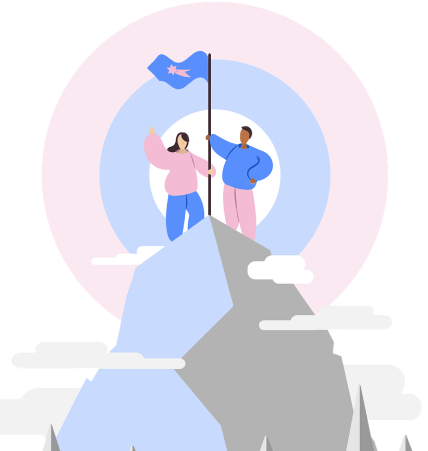
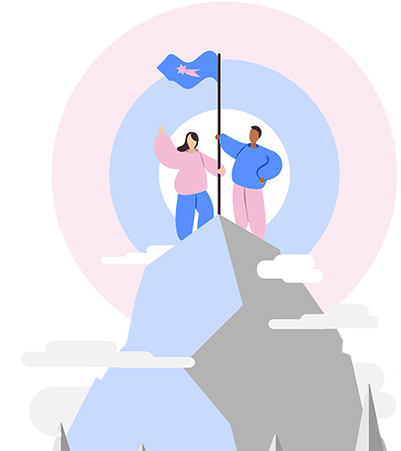
доделал баннер для всех ширин

Changed region(s): [[0.2095, 0.0931, 0.9875, 1.0], [0.0898, 0.8071, 0.2693, 1.0], [0.2993, 0.9933, 0.389, 1.0]]

diff --git a/build/css/style.min.css b/build/css/style.min.css
@@ -1,2 +1,2 @@
-@-webkit-keyframes pulse1{0%{transform:rotate(45deg) scale(1)}50%{transform:rotate(45deg) scale(1.2)}to{transform:rotate(45deg) scale(.9)}}@keyframes pulse1{0%{transform:rotate(45deg) scale(1)}50%{transform:rotate(45deg) scale(1.2)}to{transform:rotate(45deg) scale(.9)}}@-webkit-keyframes pulse2{0%{transform:rotate(-45deg) scale(1)}50%{transform:rotate(-45deg) scaleX(1.2)}to{transform:rotate(-45deg) scale(.9)}}@keyframes pulse2{0%{transform:rotate(-45deg) scale(1)}50%{transform:rotate(-45deg) scaleX(1.2)}to{transform:rotate(-45deg) scale(.9)}}img{max-width:100%;height:auto}.visually-hidden{position:absolute;width:1px;height:1px;margin:-1px;border:0;padding:0;white-space:nowrap;-webkit-clip-path:inset(100%);clip-path:inset(100%);clip:rect(0 0 0 0);overflow:hidden}@font-face{font-family:'Montserrat';src:local('Montserrat Regular'),local('Montserrat-Regular'),url(../../fonts/Montserrat-Regular.woff2) format('woff2'),url(../../fonts/Montserrat-Regular.woff) format('woff'),url(../../fonts/Montserrat-Regular.ttf) format('truetype');font-weight:400;font-style:normal}@font-face{font-family:'Montserrat';src:local('Montserrat Medium'),local('Montserrat-Medium'),url(../../fonts/Montserrat-Medium.woff2) format('woff2'),url(../../fonts/Montserrat-Medium.woff) format('woff'),url(../../fonts/Montserrat-Medium.ttf) format('truetype');font-weight:500;font-style:normal}@font-face{font-family:'Montserrat';src:local('Montserrat Bold'),local('Montserrat-Bold'),url(../../fonts/Montserrat-Bold.woff2) format('woff2'),url(../../fonts/Montserrat-Bold.woff) format('woff'),url(../../fonts/Montserrat-Bold.ttf) format('truetype');font-weight:700;font-style:normal}.font-bold,.font-medium,.font-normal{font-family:"Montserrat","Arial",sans-serif;font-style:normal;font-weight:700}.font-medium,.font-normal{font-weight:500}.font-normal{font-weight:400}.page,.page__body{background-color:#fff}.page__body{display:grid;grid-template-columns:1fr;margin:0;min-width:320px;font-family:"Montserrat","Arial",sans-serif;font-style:normal;font-weight:400;font-size:18px;line-height:27px;color:#434b53}.header__container,.page__header{display:flex;flex-direction:column}.page__header{width:100%;height:-webkit-max-content;height:-moz-max-content;height:max-content;background-color:#f4bcd4}.header__container{width:88%;margin:0 auto}@media (min-width:768px){.header__container{width:89%}}@media (min-width:1024px){.header__container{width:91%}}@media (min-width:1440px){.header__container{flex-direction:row;justify-content:space-between;width:92%}}.header__top{display:flex;flex-direction:row;justify-content:space-between;width:100%;min-height:70px}@media (min-width:768px){.header__top{min-height:80px}}@media (min-width:1024px){.header__top{min-height:85px}}@media (min-width:1440px){.header__top{min-height:90px}}.header__logo{display:flex;align-items:center}.logo__img{display:block;margin:auto 0}@media (min-width:1024px){.logo__img{width:260px}}@media (min-width:1440px){.logo__img{width:285px}}.header__toggle-container{margin:auto 0;width:26px;height:24px;cursor:pointer}@media (min-width:768px){.header__toggle-container{width:36px;height:36px}}@media (min-width:1440px){.header__toggle-container{display:none}}.header__toggle,.header__toggle::before{width:26px;height:2px;background-color:#fff;border:0;transition:all .5s ease 0s}.header__toggle{display:block;position:relative;top:4px;margin-right:30px}@media (min-width:768px){.header__toggle{top:7px;width:36px;height:3px}}.header__toggle::before{content:"";position:absolute;top:8px;left:0}@media (min-width:768px){.header__toggle::before{top:10px;width:36px;height:3px}}.header__toggle::after{content:"";position:absolute;top:16px;left:0;width:26px;height:2px;background-color:#fff;cursor:pointer;border:0;transition:all .5s ease 0s}@media (min-width:768px){.header__toggle::after{top:20px;width:36px;height:3px}}.header__toggle--closed{position:relative;left:5px;top:3px;background-color:#f4bcd4}.header__toggle--closed::after,.header__toggle--closed::before{content:"";position:absolute;top:8px;left:-2px;width:26px;height:2px;background-color:#fff;transform:matrix(.71,-.73,.69,.71,0,0)}@media (min-width:768px){.header__toggle--closed::after,.header__toggle--closed::before{top:14px;left:-2px;width:36px;height:3px;background-color:#fff}}.header__toggle--closed::before{transform:rotate(45deg);box-shadow:none}.header__toggle--closed::after{transform:rotate(-45deg)}.header__nav-list{display:flex;flex-direction:column;margin:0;padding:0;list-style:none;background-color:#f4bcd4}@media (min-width:1024px){.header__nav-list{flex-direction:row;justify-content:space-between}}@media (min-width:1440px){.header__nav-list{width:200%;max-width:1250px;align-items:center}}@media (max-width:1023px){.header__nav-list--closed{display:none}}@media (min-width:1024px) and (max-width:1439px){.header__nav-list--closed{display:none}}@media (min-width:1440px){.header__nav-list--closed{display:flex}}.header__nav-item{border-top:1px solid #fff}@media (min-width:1024px){.header__nav-item{border-top:none}.header__nav-item:not(:nth-child(1)){margin-left:1em}}.nav-item__link{display:block;font-family:"Montserrat","Arial",sans-serif;font-style:normal;font-weight:500;font-size:1em;line-height:1em;color:#fff;padding:1em;text-align:center;text-decoration:none}@media (min-width:768px){.nav-item__link{font-size:1.2em;line-height:1.2em}}@media (min-width:1024px){.nav-item__link{font-size:1.1em;line-height:1.1em;padding:.7em 0 1em}}@media (min-width:1440px){.nav-item__link{padding:1em 0}}.nav-item__link:hover{color:#598ffc;transform:scale(1.1);transition:all .5s}.nav-item__link:active{color:#fff;transform:scale(.9);transition:all .1s}.banner__container,.page__main{display:flex;flex-direction:column;width:100%}.banner__container{align-items:center;width:88%;min-height:600px;margin:0 auto;background-image:url(../img/banner-mobile.png);background-repeat:no-repeat;background-size:90% auto;background-position:center 140px}@supports (background-image:url(../img/banner-mobile.webp)){.banner__container{background-image:url(../img/banner-mobile.webp)}}@media (-webkit-min-device-pixel-ratio:2),(min-resolution:2dppx){.banner__container{background-image:url(../img/banner-mobile@2x.png)}@supports (background-image:url(../img/banner-mobile@2x.webp)){.banner__container{background-image:url(../img/banner-mobile@2x.webp)}}}@media (min-width:520px){.banner__container{background-position:center 150px}}@media (min-width:768px){.banner__container{width:89%;background-image:url(../img/banner-tablet.png)}@supports (background-image:url(../img/banner-tablet.webp)){.banner__container{background-image:url(../img/banner-tablet.webp)}}}@media (min-width:768px) and (-webkit-min-device-pixel-ratio:2),(min-width:768px) and (min-resolution:2dppx){.banner__container{background-image:url(../img/banner-tablet@2x.png)}@supports (background-image:url(../img/banner-tablet@2x.webp)){.banner__container{background-image:url(../img/banner-tablet@2x.webp)}}}@media (min-width:1024px){.banner__container{width:91%;background-image:url(../img/banner-desktop.png)}@supports (background-image:url(../img/banner-desktop.webp)){.banner__container{background-image:url(../img/banner-desktop.webp)}}}@media (min-width:1024px) and (-webkit-min-device-pixel-ratio:2),(min-width:1024px) and (min-resolution:2dppx){.banner__container{background-image:url(../img/banner-desktop@2x.png)}@supports (background-image:url(../img/banner-desktop@2x.webp)){.banner__container{background-image:url(../img/banner-desktop@2x.webp)}}}@media (min-width:1440px){.banner__container{flex-direction:row;justify-content:space-between;width:92%}}.banner__intro{display:none}.banner__heading{width:278px;font-family:"Montserrat","Arial",sans-serif;font-style:normal;font-weight:700;font-size:1.12em;line-height:1.4em;color:#598ffc;margin:30px 0 0;text-align:center}@media (min-width:520px){.banner__heading{width:310px;font-size:1.17em;line-height:1.4em;margin:35px 0 0}}.banner__text{width:278px;margin:calc(85vw + 50px) 0 0;font-family:"Montserrat","Arial",sans-serif;font-style:normal;font-weight:400;font-size:.91em;line-height:1.4em;color:#434b53;text-align:center}.banner__sign,.sign__text{background-color:#f4bcd4;border-radius:30px}.banner__sign{display:flex;flex-direction:row;width:100%;height:60px;margin:20px 0 30px;text-decoration:none}.sign__text{width:calc(90% - 60px);padding:0 0 0 10%;margin:0;font-family:"Montserrat","Arial",sans-serif;font-style:normal;font-weight:500;font-size:1.1em;line-height:56px;color:#598ffc;text-align:center}.sign__icon{width:56px;height:56px;border-radius:50%;border:2px solid #f4bcd4;background-color:#fff}.sign__icon-arrow{position:relative;display:block;width:40%;height:40%;border-bottom:4px solid #598ffc;border-right:4px solid #598ffc;transform:rotate(45deg);top:30%;left:29%;-webkit-animation:pulse1 2s infinite;animation:pulse1 2s infinite}.sign__icon-arrow::after{position:absolute;content:"";width:4px;height:160%;background-color:#598ffc;transform:rotate(-45deg);top:-30%;left:40%;-webkit-animation:pulse2 2s infinite;animation:pulse2 2s infinite}.sign__icon-arrow:hover,.sign__icon-arrow:hover::after{-webkit-animation:none;animation:none}
+@-webkit-keyframes pulse1{0%{transform:rotate(45deg) scale(1)}50%{transform:rotate(45deg) scale(1.2)}to{transform:rotate(45deg) scale(.9)}}@keyframes pulse1{0%{transform:rotate(45deg) scale(1)}50%{transform:rotate(45deg) scale(1.2)}to{transform:rotate(45deg) scale(.9)}}@-webkit-keyframes pulse2{0%{transform:rotate(-45deg) scale(1)}50%{transform:rotate(-45deg) scaleX(1.2)}to{transform:rotate(-45deg) scale(.9)}}@keyframes pulse2{0%{transform:rotate(-45deg) scale(1)}50%{transform:rotate(-45deg) scaleX(1.2)}to{transform:rotate(-45deg) scale(.9)}}img{max-width:100%;height:auto}.visually-hidden{position:absolute;width:1px;height:1px;margin:-1px;border:0;padding:0;white-space:nowrap;-webkit-clip-path:inset(100%);clip-path:inset(100%);clip:rect(0 0 0 0);overflow:hidden}@font-face{font-family:'Montserrat';src:local('Montserrat Regular'),local('Montserrat-Regular'),url(../../fonts/Montserrat-Regular.woff2) format('woff2'),url(../../fonts/Montserrat-Regular.woff) format('woff'),url(../../fonts/Montserrat-Regular.ttf) format('truetype');font-weight:400;font-style:normal}@font-face{font-family:'Montserrat';src:local('Montserrat Medium'),local('Montserrat-Medium'),url(../../fonts/Montserrat-Medium.woff2) format('woff2'),url(../../fonts/Montserrat-Medium.woff) format('woff'),url(../../fonts/Montserrat-Medium.ttf) format('truetype');font-weight:500;font-style:normal}@font-face{font-family:'Montserrat';src:local('Montserrat Bold'),local('Montserrat-Bold'),url(../../fonts/Montserrat-Bold.woff2) format('woff2'),url(../../fonts/Montserrat-Bold.woff) format('woff'),url(../../fonts/Montserrat-Bold.ttf) format('truetype');font-weight:700;font-style:normal}.font-bold,.font-medium,.font-normal{font-family:"Montserrat","Arial",sans-serif;font-style:normal;font-weight:700}.font-medium,.font-normal{font-weight:500}.font-normal{font-weight:400}.page,.page__body{background-color:#fff}.page__body{display:grid;grid-template-columns:1fr;margin:0;min-width:320px;font-family:"Montserrat","Arial",sans-serif;font-style:normal;font-weight:400;font-size:18px;line-height:27px;color:#434b53}.header__container,.page__header{display:flex;flex-direction:column}.page__header{width:100%;height:-webkit-max-content;height:-moz-max-content;height:max-content;background-color:#f4bcd4}.header__container{width:88%;margin:0 auto}@media (min-width:768px){.header__container{width:89%}}@media (min-width:1024px){.header__container{width:91%}}@media (min-width:1440px){.header__container{flex-direction:row;justify-content:space-between;width:88%}}.header__top{display:flex;flex-direction:row;justify-content:space-between;width:100%;min-height:70px}@media (min-width:768px){.header__top{min-height:80px}}@media (min-width:1024px){.header__top{min-height:85px}}@media (min-width:1440px){.header__top{min-height:90px}}.header__logo{display:flex;align-items:center}.logo__img{display:block;margin:auto 0}@media (min-width:1024px){.logo__img{width:260px}}@media (min-width:1440px){.logo__img{width:285px}}.header__toggle-container{margin:auto 0;width:26px;height:24px;cursor:pointer}@media (min-width:768px){.header__toggle-container{width:36px;height:36px}}@media (min-width:1440px){.header__toggle-container{display:none}}.header__toggle,.header__toggle::before{width:26px;height:2px;background-color:#fff;border:0;transition:all .5s ease 0s}.header__toggle{display:block;position:relative;top:4px;margin-right:30px}@media (min-width:768px){.header__toggle{top:7px;width:36px;height:3px}}.header__toggle::before{content:"";position:absolute;top:8px;left:0}@media (min-width:768px){.header__toggle::before{top:10px;width:36px;height:3px}}.header__toggle::after{content:"";position:absolute;top:16px;left:0;width:26px;height:2px;background-color:#fff;cursor:pointer;border:0;transition:all .5s ease 0s}@media (min-width:768px){.header__toggle::after{top:20px;width:36px;height:3px}}.header__toggle--closed{position:relative;left:5px;top:3px;background-color:#f4bcd4}.header__toggle--closed::after,.header__toggle--closed::before{content:"";position:absolute;top:8px;left:-2px;width:26px;height:2px;background-color:#fff;transform:matrix(.71,-.73,.69,.71,0,0)}@media (min-width:768px){.header__toggle--closed::after,.header__toggle--closed::before{top:14px;left:-2px;width:36px;height:3px;background-color:#fff}}.header__toggle--closed::before{transform:rotate(45deg);box-shadow:none}.header__toggle--closed::after{transform:rotate(-45deg)}.header__nav-list{display:flex;flex-direction:column;margin:0;padding:0;list-style:none;background-color:#f4bcd4}@media (min-width:1024px){.header__nav-list{flex-direction:row;justify-content:space-between}}@media (min-width:1440px){.header__nav-list{width:200%;max-width:1250px;align-items:center}}@media (max-width:1023px){.header__nav-list--closed{display:none}}@media (min-width:1024px) and (max-width:1439px){.header__nav-list--closed{display:none}}@media (min-width:1440px){.header__nav-list--closed{display:flex}}.header__nav-item{border-top:1px solid #fff}@media (min-width:1024px){.header__nav-item{border-top:none}.header__nav-item:not(:nth-child(1)){margin-left:1em}}.nav-item__link{display:block;font-family:"Montserrat","Arial",sans-serif;font-style:normal;font-weight:500;font-size:1em;line-height:1em;color:#fff;padding:1em;text-align:center;text-decoration:none}@media (min-width:520px){.nav-item__link{font-size:1.1em;line-height:1.1em}}@media (min-width:768px){.nav-item__link{font-size:1.2em;line-height:1.2em}}@media (min-width:1024px){.nav-item__link{font-size:1.1em;line-height:1.1em;padding:.7em 0 1em}}@media (min-width:1440px){.nav-item__link{padding:1em 0}}.nav-item__link:hover{color:#598ffc;transform:scale(1.1);transition:all .5s}.nav-item__link:active{color:#fff;transform:scale(.9);transition:all .1s}.banner__container,.page__main{display:flex;flex-direction:column;width:100%}.banner__container{align-items:center;width:88%;margin:0 auto;background-image:url(../img/banner-mobile.png);background-repeat:no-repeat;background-size:90% auto;background-position:center 140px}@supports (background-image:url(../img/banner-mobile.webp)){.banner__container{background-image:url(../img/banner-mobile.webp)}}@media (-webkit-min-device-pixel-ratio:2),(min-resolution:2dppx){.banner__container{background-image:url(../img/banner-mobile@2x.png)}@supports (background-image:url(../img/banner-mobile@2x.webp)){.banner__container{background-image:url(../img/banner-mobile@2x.webp)}}}@media (min-width:520px){.banner__container{background-position:center 160px}}@media (min-width:768px){.banner__container{align-items:flex-start;background-size:380px auto;background-position:100% 100px;background-image:url(../img/banner-tablet.png)}@supports (background-image:url(../img/banner-tablet.webp)){.banner__container{background-image:url(../img/banner-tablet.webp)}}}@media (min-width:768px) and (-webkit-min-device-pixel-ratio:2),(min-width:768px) and (min-resolution:2dppx){.banner__container{background-image:url(../img/banner-tablet@2x.png)}@supports (background-image:url(../img/banner-tablet@2x.webp)){.banner__container{background-image:url(../img/banner-tablet@2x.webp)}}}@media (min-width:1024px){.banner__container{width:calc(30% + 624px);background-size:450px auto;background-position:100% 90px;background-image:url(../img/banner-desktop.png)}@supports (background-image:url(../img/banner-desktop.webp)){.banner__container{background-image:url(../img/banner-desktop.webp)}}}@media (min-width:1024px) and (-webkit-min-device-pixel-ratio:2),(min-width:1024px) and (min-resolution:2dppx){.banner__container{background-image:url(../img/banner-desktop@2x.png)}@supports (background-image:url(../img/banner-desktop@2x.webp)){.banner__container{background-image:url(../img/banner-desktop@2x.webp)}}}@media (min-width:1440px){.banner__container{width:calc(35% + 763px);background-size:520px auto;background-position:100% 90px}}.banner__intro{display:none}@media (min-width:1024px){.banner__intro{display:block;width:-webkit-max-content;width:-moz-max-content;width:max-content;background-color:#fbe9f1;padding:.2em 1em;border-radius:16px;font-family:"Montserrat","Arial",sans-serif;font-style:normal;font-weight:400;font-size:1em;line-height:1.4em;color:#434b53;margin:110px 0 0;text-align:start}}@media (min-width:1440px){.banner__intro{border-radius:20.5px;font-family:"Montserrat","Arial",sans-serif;font-style:normal;font-weight:400;font-size:1.2em;line-height:1.5em;color:#434b53;margin:90px 0 0}}.banner__heading{width:278px;font-family:"Montserrat","Arial",sans-serif;font-style:normal;font-weight:700;font-size:1.12em;line-height:1.4em;color:#598ffc;margin:30px 0 0;text-align:center}@media (min-width:520px){.banner__heading{width:330px;font-size:1.4em;margin:35px 0 0}}@media (min-width:768px){.banner__heading{width:380px;font-size:1.55em;line-height:1.5em;margin:50px 0 0;text-align:start}}@media (min-width:1024px){.banner__heading{width:440px;font-size:2em;line-height:1.55em;margin:30px 0 0}}@media (min-width:1440px){.banner__heading{width:560px;font-size:2.25em;line-height:1.55em;margin:40px 0 0}}.banner__text{width:278px;margin:calc(85vw + 50px) 0 0;font-family:"Montserrat","Arial",sans-serif;font-style:normal;font-weight:400;font-size:.91em;line-height:1.4em;color:#434b53;text-align:center}@media (min-width:520px){.banner__text{width:340px;font-size:1.1em;margin:calc(85vw + 70px) 0 0}}@media (min-width:768px){.banner__text{width:260px;margin-top:90px;font-size:1.2em;line-height:1.5em;text-align:start}}@media (min-width:1024px){.banner__text{width:370px;margin-top:60px}}@media (min-width:1440px){.banner__text{width:450px;margin-top:110px;font-size:1.4em}}.banner__sign{display:flex;flex-direction:row;width:100%;height:60px;margin:20px 0 30px;background-color:#f4bcd4;border-radius:30px;text-decoration:none}@media (min-width:520px){.banner__sign{height:70px;margin:30px 0 40px;border-radius:35px}}@media (min-width:768px){.banner__sign{width:45%;margin:64px 0 30px}}@media (min-width:1024px){.banner__sign{width:360px;margin:30px 0 90px}}@media (min-width:1440px){.banner__sign{width:400px;margin:40px 0 90px}}.sign__text{width:calc(90% - 60px);background-color:#f4bcd4;border-radius:30px;padding:0 0 0 10%;margin:0;font-family:"Montserrat","Arial",sans-serif;font-style:normal;font-weight:500;font-size:1.1em;line-height:56px;color:#fff;text-align:center}@media (min-width:520px){.sign__text{font-size:1.3em;line-height:66px}}@media (min-width:768px){.sign__text{font-size:1.35em;padding:0 0 0 8%}}@media (min-width:1440px){.sign__text{font-size:1.45em}}.sign__icon{width:56px;height:56px;border-radius:50%;border:2px solid #f4bcd4;background-color:#fff}@media (min-width:520px){.sign__icon{width:64px;height:64px;border:3px solid #f4bcd4}}.sign__icon-arrow{position:relative;display:block;width:40%;height:40%;border-bottom:4px solid #598ffc;border-right:4px solid #598ffc;transform:rotate(45deg);top:30%;left:29%;-webkit-animation:pulse1 2s infinite;animation:pulse1 2s infinite}.sign__icon-arrow::after{position:absolute;content:"";width:4px;height:160%;background-color:#598ffc;transform:rotate(-45deg);top:-30%;left:40%;-webkit-animation:pulse2 2s infinite;animation:pulse2 2s infinite}.sign__icon-arrow:hover,.sign__icon-arrow:hover::after{-webkit-animation:none;animation:none}
 /*# sourceMappingURL=style.min.css.map */

diff --git a/build/index.html b/build/index.html
@@ -1,1 +1,1 @@
-<!DOCTYPE html><html class="page" lang="ru"><head><meta name="viewport" content="width=device-width,initial-scale=1"><meta charset="utf-8"><title>Создание Landing Page "под ключ"!</title><link rel="stylesheet" type="text/css" href="css/style.min.css"><!-- Сделал здесь  https://be1.ru/generator-favicon/ --><link type="image/x-icon" rel="shortcut icon" href="./favicon.ico"><!-- Дополнительные иконки для десктопных браузеров --><link type="image/png" sizes="16x16" rel="icon" href="./favicon-16x16.png"><link type="image/png" sizes="32x32" rel="icon" href="./favicon-32x32.png"><link type="image/png" sizes="96x96" rel="icon" href="./favicon-96x96.png"><link type="image/png" sizes="120x120" rel="icon" href="./favicon-120x120.png"><!-- Иконки для Android --><link type="image/png" sizes="72x72" rel="icon" href="./android-icon-72x72.png"><link type="image/png" sizes="96x96" rel="icon" href="./android-icon-96x96.png"><link type="image/png" sizes="144x144" rel="icon" href="./android-icon-144x144.png"><link type="image/png" sizes="192x192" rel="icon" href="./android-icon-192x192.png"><link type="image/png" sizes="512x512" rel="icon" href="./android-icon-512x512.png"><link rel="manifest" href="./manifest.json"><!-- Иконки для iOS (Apple) --><link sizes="57x57" rel="apple-touch-icon" href="./apple-touch-icon-57x57.png"><link sizes="60x60" rel="apple-touch-icon" href="./apple-touch-icon-60x60.png"><link sizes="72x72" rel="apple-touch-icon" href="./apple-touch-icon-72x72.png"><link sizes="76x76" rel="apple-touch-icon" href="./apple-touch-icon-76x76.png"><link sizes="114x114" rel="apple-touch-icon" href="./apple-touch-icon-114x114.png"><link sizes="120x120" rel="apple-touch-icon" href="./apple-touch-icon-120x120.png"><link sizes="144x144" rel="apple-touch-icon" href="./apple-touch-icon-144x144.png"><link sizes="152x152" rel="apple-touch-icon" href="./apple-touch-icon-152x152.png"><link sizes="180x180" rel="apple-touch-icon" href="./apple-touch-icon-180x180.png"><!-- Иконки для MacOS (Apple) --><link color="#e52037" rel="mask-icon" href="./safari-pinned-tab.svg"><!-- Иконки и цвета для плиток Windows --><meta name="msapplication-TileColor" content="#2b5797"><meta name="msapplication-TileImage" content="./mstile-144x144.png"><meta name="msapplication-square70x70logo" content="./mstile-70x70.png"><meta name="msapplication-square150x150logo" content="./mstile-150x150.png"><meta name="msapplication-wide310x150logo" content="./mstile-310x310.png"><meta name="msapplication-square310x310logo" content="./mstile-310x150.png"><meta name="application-name" content="My Application"><meta name="msapplication-config" content="./browserconfig.xml"></head><body class="page__body"><header class="page__header"><div class="header__container"><div class="header__top"><div class="header__logo"><picture><source media="(min-width: 768px)" srcset="img/logo-tablet.svg" width="220" height="auto"><img class="logo__img" src="img/logo-mobile.svg" width="60" height="auto" alt="Логотип web-мастерской «Hundred»"></picture></div><div class="header__toggle-container"><button class="header__toggle visually-hidden" type="button"><span class="visually-hidden">Открыть или закрыть меню</span></button></div></div><ul class="header__nav-list"><li class="header__nav-item"><a class="nav-item__link" href="#living-example">Этапы работы</a></li><li class="header__nav-item"><a class="nav-item__link" href="#nutrition-program">Преимущества</a></li><li class="header__nav-item"><a class="nav-item__link" href="#advantages">Наша команда</a></li><li class="header__nav-item"><a class="nav-item__link" href="#products">Наши работы</a></li><li class="header__nav-item"><a class="nav-item__link" href="#contacts">Отзывы</a></li><li class="header__nav-item"><a class="nav-item__link" href="#contacts">Цены</a></li></ul></div></header><main class="page__main"><section class="main__banner"><div class="banner__container"><p class="banner__intro">Дизайн и разработка лендинг-страниц "под ллюч"</p><h1 class="banner__heading">Сделаем Landing Page с уникальным дизайном за 10 дней</h1><p class="banner__text">Вместе с нами покорить новую высоту будет легче и быстрее</p><a class="banner__sign" href="#living-example"><p class="sign__text">Посмотри как</p><div class="sign__icon"><span class="sign__icon-arrow"></span></div></a></div></section></main><footer class="page__footer"><div class="footer__container"></div></footer><script src="../js/script.min.js"></script></body></html>
+<!DOCTYPE html><html class="page" lang="ru"><head><meta name="viewport" content="width=device-width,initial-scale=1"><meta charset="utf-8"><title>Создание Landing Page "под ключ"!</title><link rel="stylesheet" type="text/css" href="css/style.min.css"><!-- Сделал здесь  https://be1.ru/generator-favicon/ --><link type="image/x-icon" rel="shortcut icon" href="./favicon.ico"><!-- Дополнительные иконки для десктопных браузеров --><link type="image/png" sizes="16x16" rel="icon" href="./favicon-16x16.png"><link type="image/png" sizes="32x32" rel="icon" href="./favicon-32x32.png"><link type="image/png" sizes="96x96" rel="icon" href="./favicon-96x96.png"><link type="image/png" sizes="120x120" rel="icon" href="./favicon-120x120.png"><!-- Иконки для Android --><link type="image/png" sizes="72x72" rel="icon" href="./android-icon-72x72.png"><link type="image/png" sizes="96x96" rel="icon" href="./android-icon-96x96.png"><link type="image/png" sizes="144x144" rel="icon" href="./android-icon-144x144.png"><link type="image/png" sizes="192x192" rel="icon" href="./android-icon-192x192.png"><link type="image/png" sizes="512x512" rel="icon" href="./android-icon-512x512.png"><link rel="manifest" href="./manifest.json"><!-- Иконки для iOS (Apple) --><link sizes="57x57" rel="apple-touch-icon" href="./apple-touch-icon-57x57.png"><link sizes="60x60" rel="apple-touch-icon" href="./apple-touch-icon-60x60.png"><link sizes="72x72" rel="apple-touch-icon" href="./apple-touch-icon-72x72.png"><link sizes="76x76" rel="apple-touch-icon" href="./apple-touch-icon-76x76.png"><link sizes="114x114" rel="apple-touch-icon" href="./apple-touch-icon-114x114.png"><link sizes="120x120" rel="apple-touch-icon" href="./apple-touch-icon-120x120.png"><link sizes="144x144" rel="apple-touch-icon" href="./apple-touch-icon-144x144.png"><link sizes="152x152" rel="apple-touch-icon" href="./apple-touch-icon-152x152.png"><link sizes="180x180" rel="apple-touch-icon" href="./apple-touch-icon-180x180.png"><!-- Иконки для MacOS (Apple) --><link color="#e52037" rel="mask-icon" href="./safari-pinned-tab.svg"><!-- Иконки и цвета для плиток Windows --><meta name="msapplication-TileColor" content="#2b5797"><meta name="msapplication-TileImage" content="./mstile-144x144.png"><meta name="msapplication-square70x70logo" content="./mstile-70x70.png"><meta name="msapplication-square150x150logo" content="./mstile-150x150.png"><meta name="msapplication-wide310x150logo" content="./mstile-310x310.png"><meta name="msapplication-square310x310logo" content="./mstile-310x150.png"><meta name="application-name" content="My Application"><meta name="msapplication-config" content="./browserconfig.xml"></head><body class="page__body"><header class="page__header"><div class="header__container"><div class="header__top"><div class="header__logo"><picture><source media="(min-width: 768px)" srcset="img/logo-tablet.svg" width="220" height="auto"><img class="logo__img" src="img/logo-mobile.svg" width="60" height="auto" alt="Логотип web-мастерской «Hundred»"></picture></div><div class="header__toggle-container"><button class="header__toggle visually-hidden" type="button"><span class="visually-hidden">Открыть или закрыть меню</span></button></div></div><ul class="header__nav-list"><li class="header__nav-item"><a class="nav-item__link" href="#living-example">Этапы работы</a></li><li class="header__nav-item"><a class="nav-item__link" href="#nutrition-program">Преимущества</a></li><li class="header__nav-item"><a class="nav-item__link" href="#advantages">Наша команда</a></li><li class="header__nav-item"><a class="nav-item__link" href="#products">Наши работы</a></li><li class="header__nav-item"><a class="nav-item__link" href="#contacts">Отзывы</a></li><li class="header__nav-item"><a class="nav-item__link" href="#contacts">Цены</a></li></ul></div></header><main class="page__main"><section class="main__banner"><div class="banner__container"><p class="banner__intro">Дизайн и разработка лендинг-страниц "под ключ"</p><h1 class="banner__heading">Сделаем Landing Page с уникальным дизайном за 10 дней</h1><p class="banner__text">Вместе с нами покорить новую высоту будет легче и быстрее</p><a class="banner__sign" href="#living-example"><p class="sign__text">Посмотри как</p><div class="sign__icon"><span class="sign__icon-arrow"></span></div></a></div></section></main><footer class="page__footer"><div class="footer__container"></div></footer><script src="../js/script.min.js"></script></body></html>

diff --git a/source/less/blocks/page-main/page__main.less b/source/less/blocks/page-main/page__main.less
@@ -12,7 +12,6 @@
   flex-direction: column;
   align-items: center;
   width: 88%;
-  min-height: 600px;
   margin: 0 auto;
   background-image: url("../img/banner-mobile.png");
 
@@ -36,11 +35,13 @@
   }
 
   @media (min-width: @modile_xl_width) {
-    background-position: center 150px;
+    background-position: center 160px;
   }
 
   @media (min-width: @tablet_width) {
-    width: 89%;
+    align-items: flex-start;
+    background-size: 380px auto;
+    background-position: 100% 100px;
     background-image: url("../img/banner-tablet.png");
 
     @supports (background-image: url("../img/banner-tablet.webp")) {
@@ -57,7 +58,9 @@
   }
 
   @media (min-width: @laptop_width) {
-    width: 91%;
+    width: calc(~'30% + 624px');
+    background-size: 450px auto;
+    background-position: 100% 90px;
     background-image: url("../img/banner-desktop.png");
 
     @supports (background-image: url("../img/banner-desktop.webp")) {
@@ -74,14 +77,39 @@
   }
 
   @media (min-width: @desktop_width) {
-    flex-direction: row;
-    justify-content: space-between;
-    width: 92%;
+    width: calc(~'35% + 763px');
+    background-size: 520px auto;
+    background-position: 100% 90px;
   }
 }
 
 .banner__intro {
-  display: none
+  display: none;
+
+  @media (min-width: @laptop_width) {
+    display: block;
+    width: max-content;
+    background-color: @special_pink;
+    padding: .2em 1em;
+    border-radius: 16px;
+
+    .font-normal;
+    font-size: 1em;
+    line-height: 1.4em;
+    color: @basic_gray;
+    margin: 110px 0 0 0;
+    text-align: start;
+  }
+
+  @media (min-width: @desktop_width) {
+    border-radius: 20.5px;
+
+    .font-normal;
+    font-size: 1.2em;
+    line-height: 1.5em;
+    color: @basic_gray;
+    margin: 90px 0 0 0;
+  }
 }
 
 .banner__heading {
@@ -94,14 +122,32 @@
   text-align: center;
 
   @media (min-width: @modile_xl_width) {
-    width: 310px;
-    font-size: 1.17em;
-    line-height: 1.4em;
+    width: 330px;
+    font-size: 1.4em;
     margin: 35px 0 0 0;
   }
 
-  // outline: 1px solid rgb(8, 0, 255);
-  // outline-offset: -1px;
+  @media (min-width: @tablet_width) {
+    width: 380px;
+    font-size: 1.55em;
+    line-height: 1.5em;
+    margin: 50px 0 0 0;
+    text-align: start;
+  }
+
+  @media (min-width: @laptop_width) {
+    width: 440px;
+    font-size: 2em;
+    line-height: 1.55em;
+    margin: 30px 0 0 0;
+  }
+
+  @media (min-width: @desktop_width) {
+    width: 560px;
+    font-size: 2.25em;
+    line-height: 1.55em;
+    margin: 40px 0 0 0;
+  }
 }
 
 .banner__text {
@@ -113,6 +159,31 @@
   line-height: 1.4em;
   color: @basic_gray;
   text-align: center;
+
+  @media (min-width: @modile_xl_width) {
+    width: 340px;
+    font-size: 1.1em;
+    margin: calc(~'85vw + 70px') 0 0 0;
+  }
+
+  @media (min-width: @tablet_width) {
+    width: 260px;
+    margin-top: 90px;
+    font-size: 1.2em;
+    line-height: 1.5em;
+    text-align: start;
+  }
+
+  @media (min-width: @laptop_width) {
+    width: 370px;
+    margin-top: 60px;
+  }
+
+  @media (min-width: @desktop_width) {
+    width: 450px;
+    margin-top: 110px;
+    font-size: 1.4em;
+  }
 }
 
 .banner__sign {
@@ -124,6 +195,27 @@
   background-color: @basic_pink;
   border-radius: 30px;
   text-decoration: none;
+
+  @media (min-width: @modile_xl_width) {
+    height: 70px;
+    margin: 30px 0 40px 0;
+    border-radius: 35px;
+  }
+
+  @media (min-width: @tablet_width) {
+    width: 45%;
+    margin: 64px 0 30px 0;
+  }
+
+  @media (min-width: @laptop_width) {
+    width: 360px;
+    margin: 30px 0 90px 0;
+  }
+
+  @media (min-width: @desktop_width) {
+    width: 400px;
+    margin: 40px 0 90px 0;
+  }
 }
 
 .sign__text {
@@ -136,8 +228,22 @@
   .font-medium;
   font-size: 1.1em;
   line-height: 56px;
-  color: @basic_blue;
+  color: @basic_white;
   text-align: center;
+
+  @media (min-width: @modile_xl_width) {
+    font-size: 1.3em;
+    line-height: 66px;
+  }
+
+  @media (min-width: @tablet_width) {
+    font-size: 1.35em;
+    padding: 0 0 0 8%;
+  }
+
+  @media (min-width: @desktop_width) {
+    font-size: 1.45em;
+  }
 }
 
 .sign__icon {
@@ -146,6 +252,12 @@
   border-radius: 50%;
   border: 2px solid @basic_pink;
   background-color: @basic_white;
+
+  @media (min-width: @modile_xl_width) {
+    width: 64px;
+    height: 64px;
+    border: 3px solid @basic_pink;
+  }
 }
 
 .sign__icon-arrow {
@@ -182,9 +294,11 @@
   0% {
     transform: rotate(45deg) scale(1);
   }
+
   50% {
     transform: rotate(45deg) scale(1.2);
   }
+
   100% {
     transform: rotate(45deg) scale(.9);
   }
@@ -194,11 +308,12 @@
   0% {
     transform: rotate(-45deg) scale(1);
   }
+
   50% {
     transform: rotate(-45deg) scaleX(1.2);
   }
+
   100% {
     transform: rotate(-45deg) scale(.9);
   }
 }
-

diff --git a/source/index.html b/source/index.html
@@ -93,7 +93,7 @@
   <main class="page__main">
     <section class="main__banner">
       <div class="banner__container">
-        <p class="banner__intro">Дизайн и разработка лендинг-страниц "под ллюч"</p>
+        <p class="banner__intro">Дизайн и разработка лендинг-страниц "под ключ"</p>
         <h1 class="banner__heading">Сделаем Landing Page с уникальным дизайном за 10 дней</h1>
         <p class="banner__text">Вместе с нами покорить новую высоту будет легче и быстрее</p>
         <a class="banner__sign" href="#living-example">

diff --git a/source/less/blocks/page__header.less b/source/less/blocks/page__header.less
@@ -23,7 +23,7 @@
   @media (min-width: @desktop_width) {
     flex-direction: row;
     justify-content: space-between;
-    width: 92%;
+    width: 88%;
   }
 }
 
@@ -229,6 +229,11 @@
   padding: 1em;
   text-align: center;
   text-decoration: none;
+
+  @media (min-width: @modile_xl_width) {
+    font-size: 1.1em;
+    line-height: 1.1em;
+  }
 
   @media (min-width: @tablet_width) {
     font-size: 1.2em;
